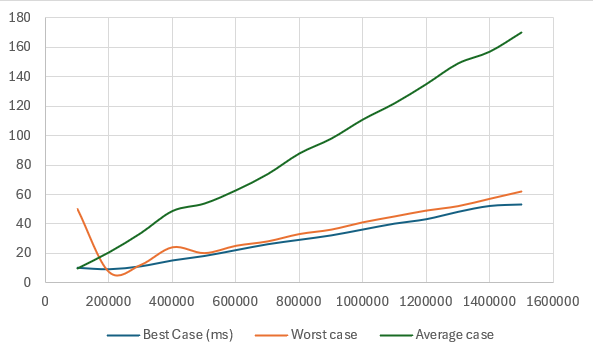
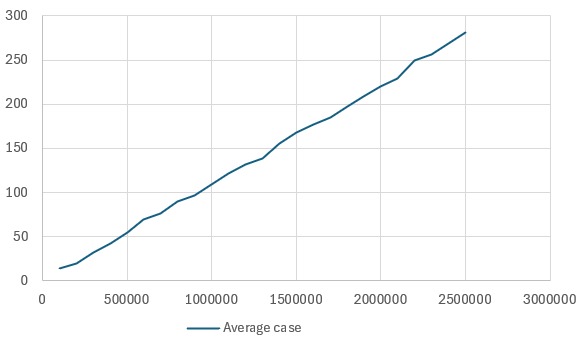
merge sort update

diff --git a/Merge sort/MergeSortAnalysis.java b/Merge sort/MergeSortAnalysis.java
@@ -1,4 +1,3 @@
-import java.util.Arrays;
 import java.util.Random;
 
 public class MergeSortAnalysis {
@@ -7,37 +6,15 @@ public class MergeSortAnalysis {
         System.setProperty("java.util.concurrent.ForkJoinPool.common.parallelism", "1");
 
         int increment = 100000;
-        int maxSize = 1500000;
+        int maxSize = 2500000;
         Random random = new Random();
 
-        System.out.printf("%-10s %-15s %-15s %-15s\n", "Size", "Best Case (ms)", "Worst Case (ms)", "Average Case (ms)");
+        System.out.printf("%-10s %-15s\n", "Size", "Average Case (ms)");
         for (int size = increment; size <= maxSize; size += increment) {
-            int[] bestCase = generateBestCase(size);
-            int[] worstCase = generateWorstCase(size);
-            int[] averageCase = generateAverageCase(size, random);
-
-            long bestTime = timeMergeSort(Arrays.copyOf(bestCase, bestCase.length));
-            long worstTime = timeMergeSort(Arrays.copyOf(worstCase, worstCase.length));
-            long averageTime = timeMergeSort(Arrays.copyOf(averageCase, averageCase.length));
-
-            System.out.printf("%-10d %-15d %-15d %-15d\n", size, bestTime, worstTime, averageTime);
+            int[] array = generateAverageCase(size, random);
+            long averageTime = timeMergeSort(array);
+            System.out.printf("%-10d %-15d\n", size, averageTime);
         }
-    }
-
-    private static int[] generateBestCase(int size) {
-        int[] array = new int[size];
-        for (int i = 0; i < size; i++) {
-            array[i] = i;
-        }
-        return array;
-    }
-
-    private static int[] generateWorstCase(int size) {
-        int[] array = new int[size];
-        for (int i = 0; i < size; i++) {
-            array[i] = size - i;
-        }
-        return array;
     }
 
     private static int[] generateAverageCase(int size, Random random) {
